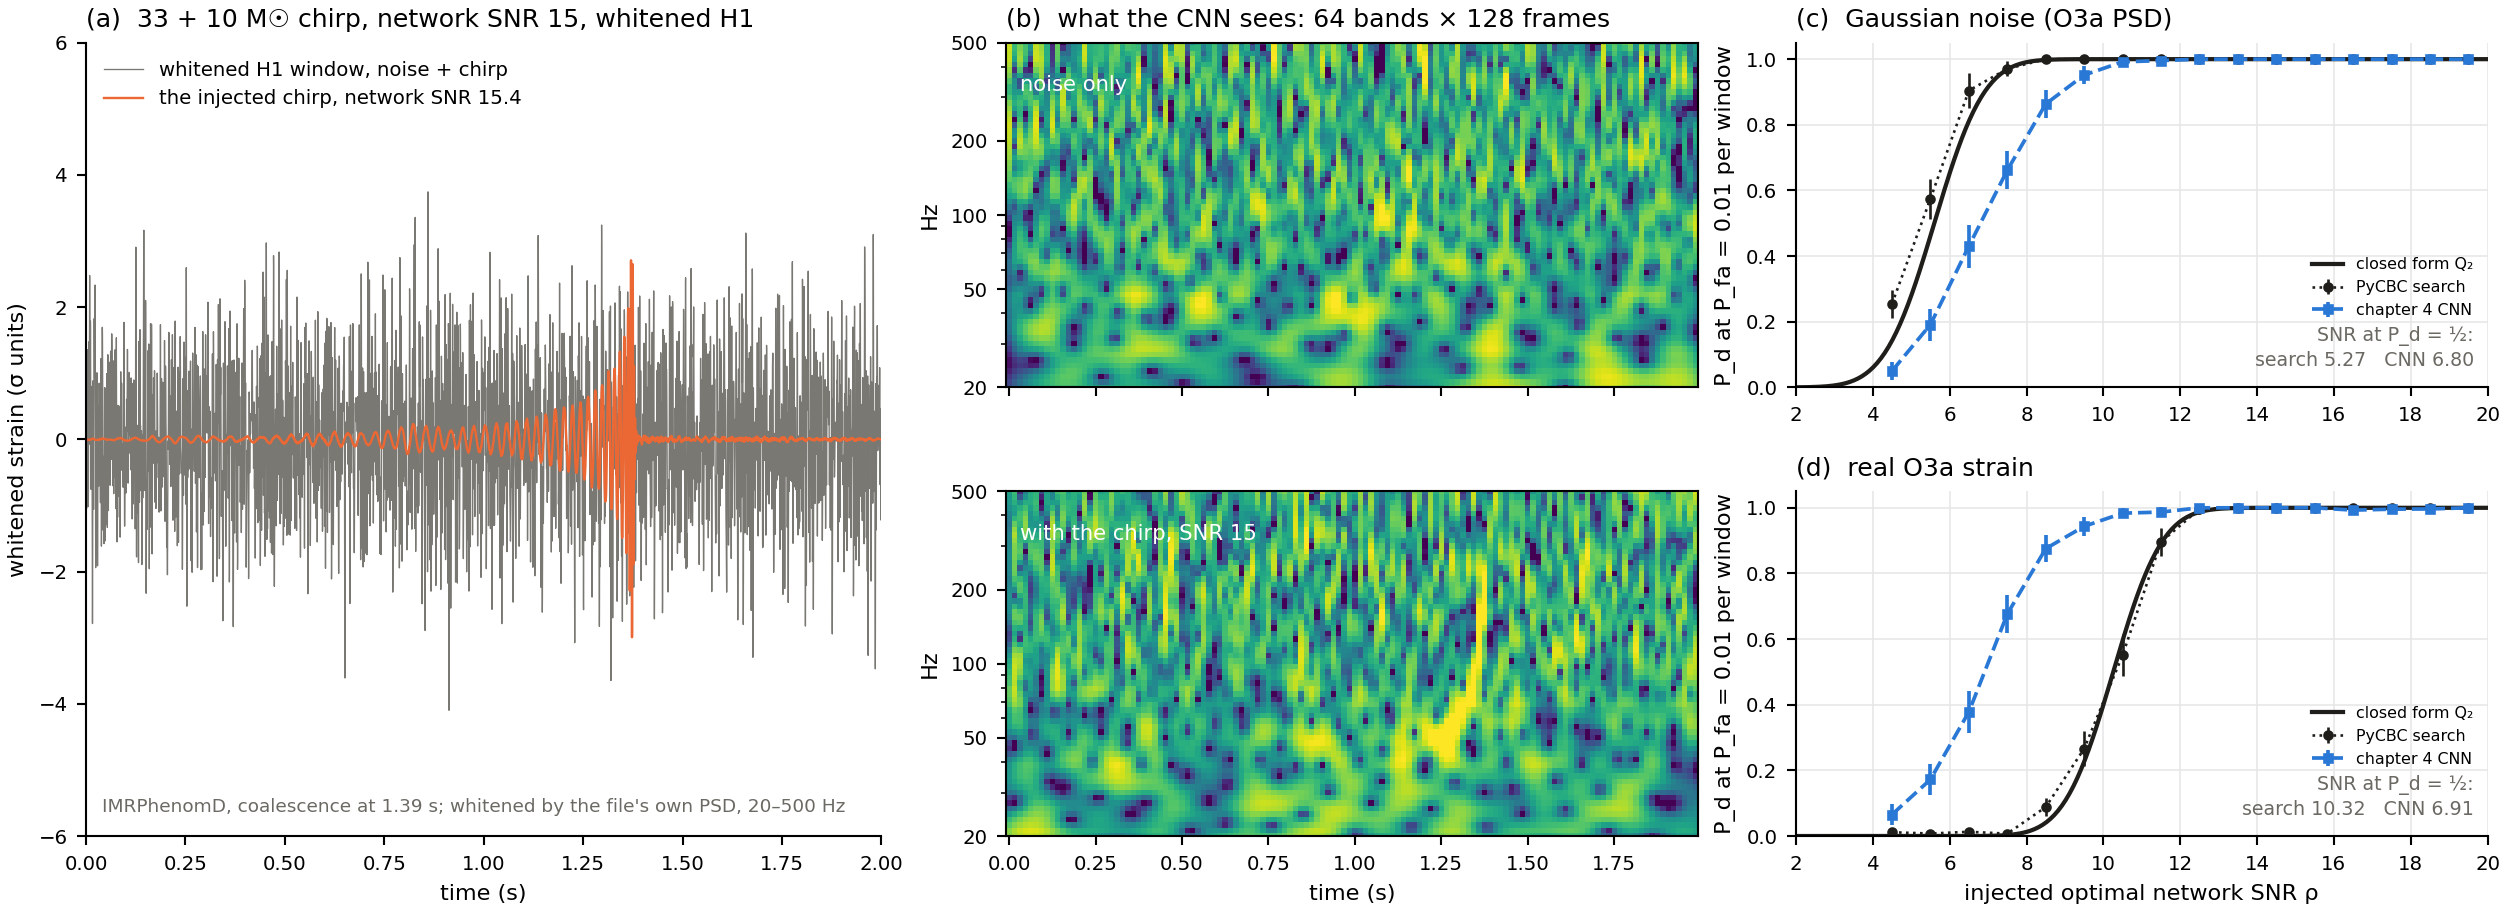
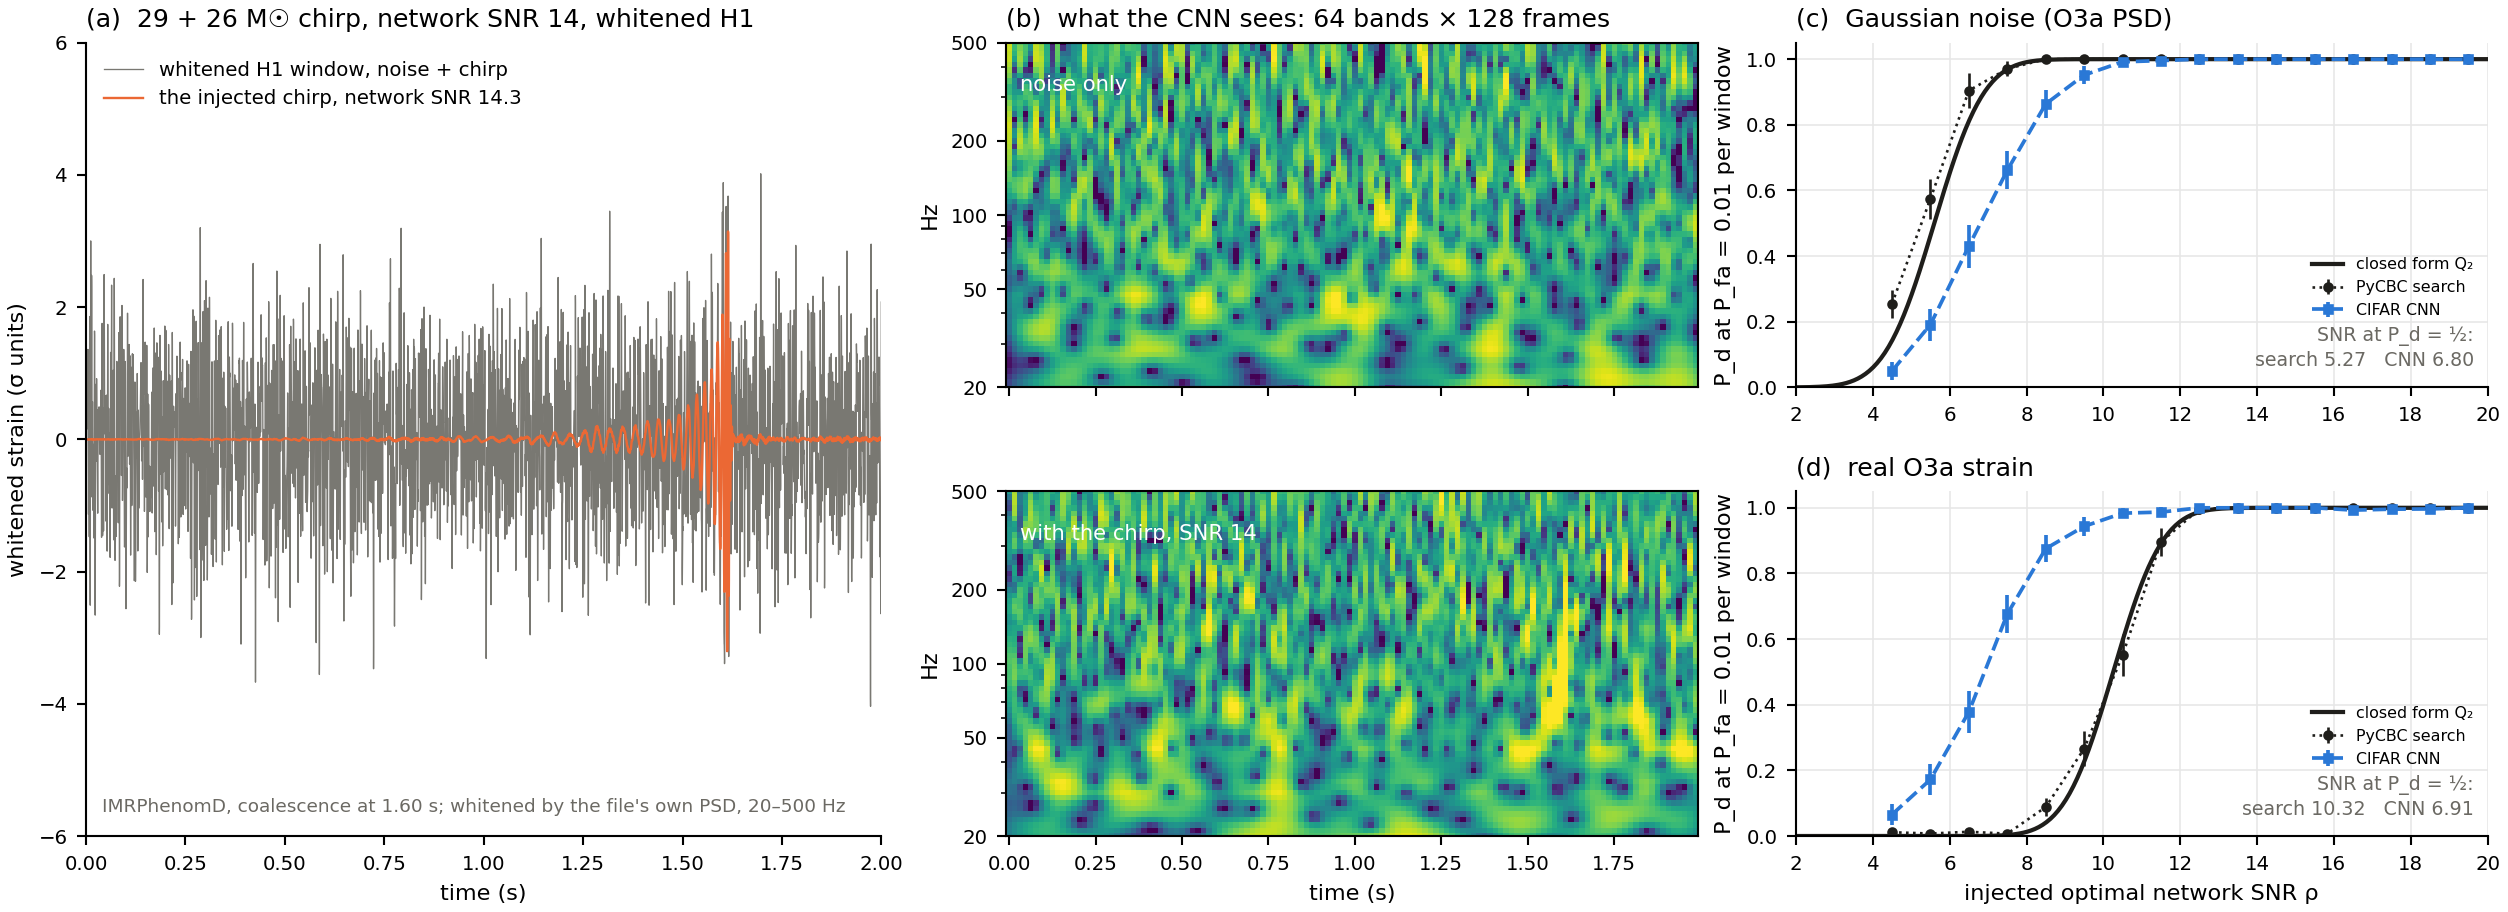
book(fig:gw_detect): the LIGO figure regenerated from a rebuilt data/gw, its legend "CIFAR CNN" in place of the chapter numeral; the detection panels and their four threshold numbers are unchanged, panel (a)'s example is a fresh injection draw (29 + 26 M_sun at network SNR 14) and the caption follow
Claude-Session: https://claude.ai/code/session_017rZYsr6X2tCQtGcRTqfyQa

diff --git a/blueprint/src/content.tex b/blueprint/src/content.tex
@@ -18462,7 +18462,7 @@ spectrograms, and the detection curves in both noises.
 \includegraphics[width=\textwidth]{demos/gw_detect.png}
 \caption{A Chapter~\ref{chap:bn} CNN against the matched filter on LIGO strain. (a) A
 whitened $2$\,s H1 window from the validation set with its injected
-$33 + 10\,M_\odot$ chirp at network SNR 15. (b) The two spectrograms the
+$29 + 26\,M_\odot$ chirp at network SNR 14. (b) The two spectrograms the
 network must tell apart. (c) Detection probability against injected SNR in
 Gaussian noise at $10^{-2}$ false alarms per window: the closed form at the
 search's threshold, PyCBC's matched filter on the same windows with the two

diff --git a/demos/README.md b/demos/README.md
@@ -956,7 +956,7 @@ python3 scripts/demos/gw_metrics.py matrix gauss=<prefix> real=<prefix>   # the 
 python3 scripts/demos/gw_figure.py <table_val.json> gw_detect.png --cnn-real=<table_val.json> --net=CNN
 ```
 
-![A chapter-4 CNN against the matched filter on LIGO strain](figures/gw_detect.png)
+![A CIFAR CNN against the matched filter on LIGO strain](figures/gw_detect.png)
 
 (a) A whitened 2 s H1 window from the validation set with its injected chirp overlaid; (b) the
 spectrograms the CNN sees, a noise-only window and the injected one; (c) detection probability
